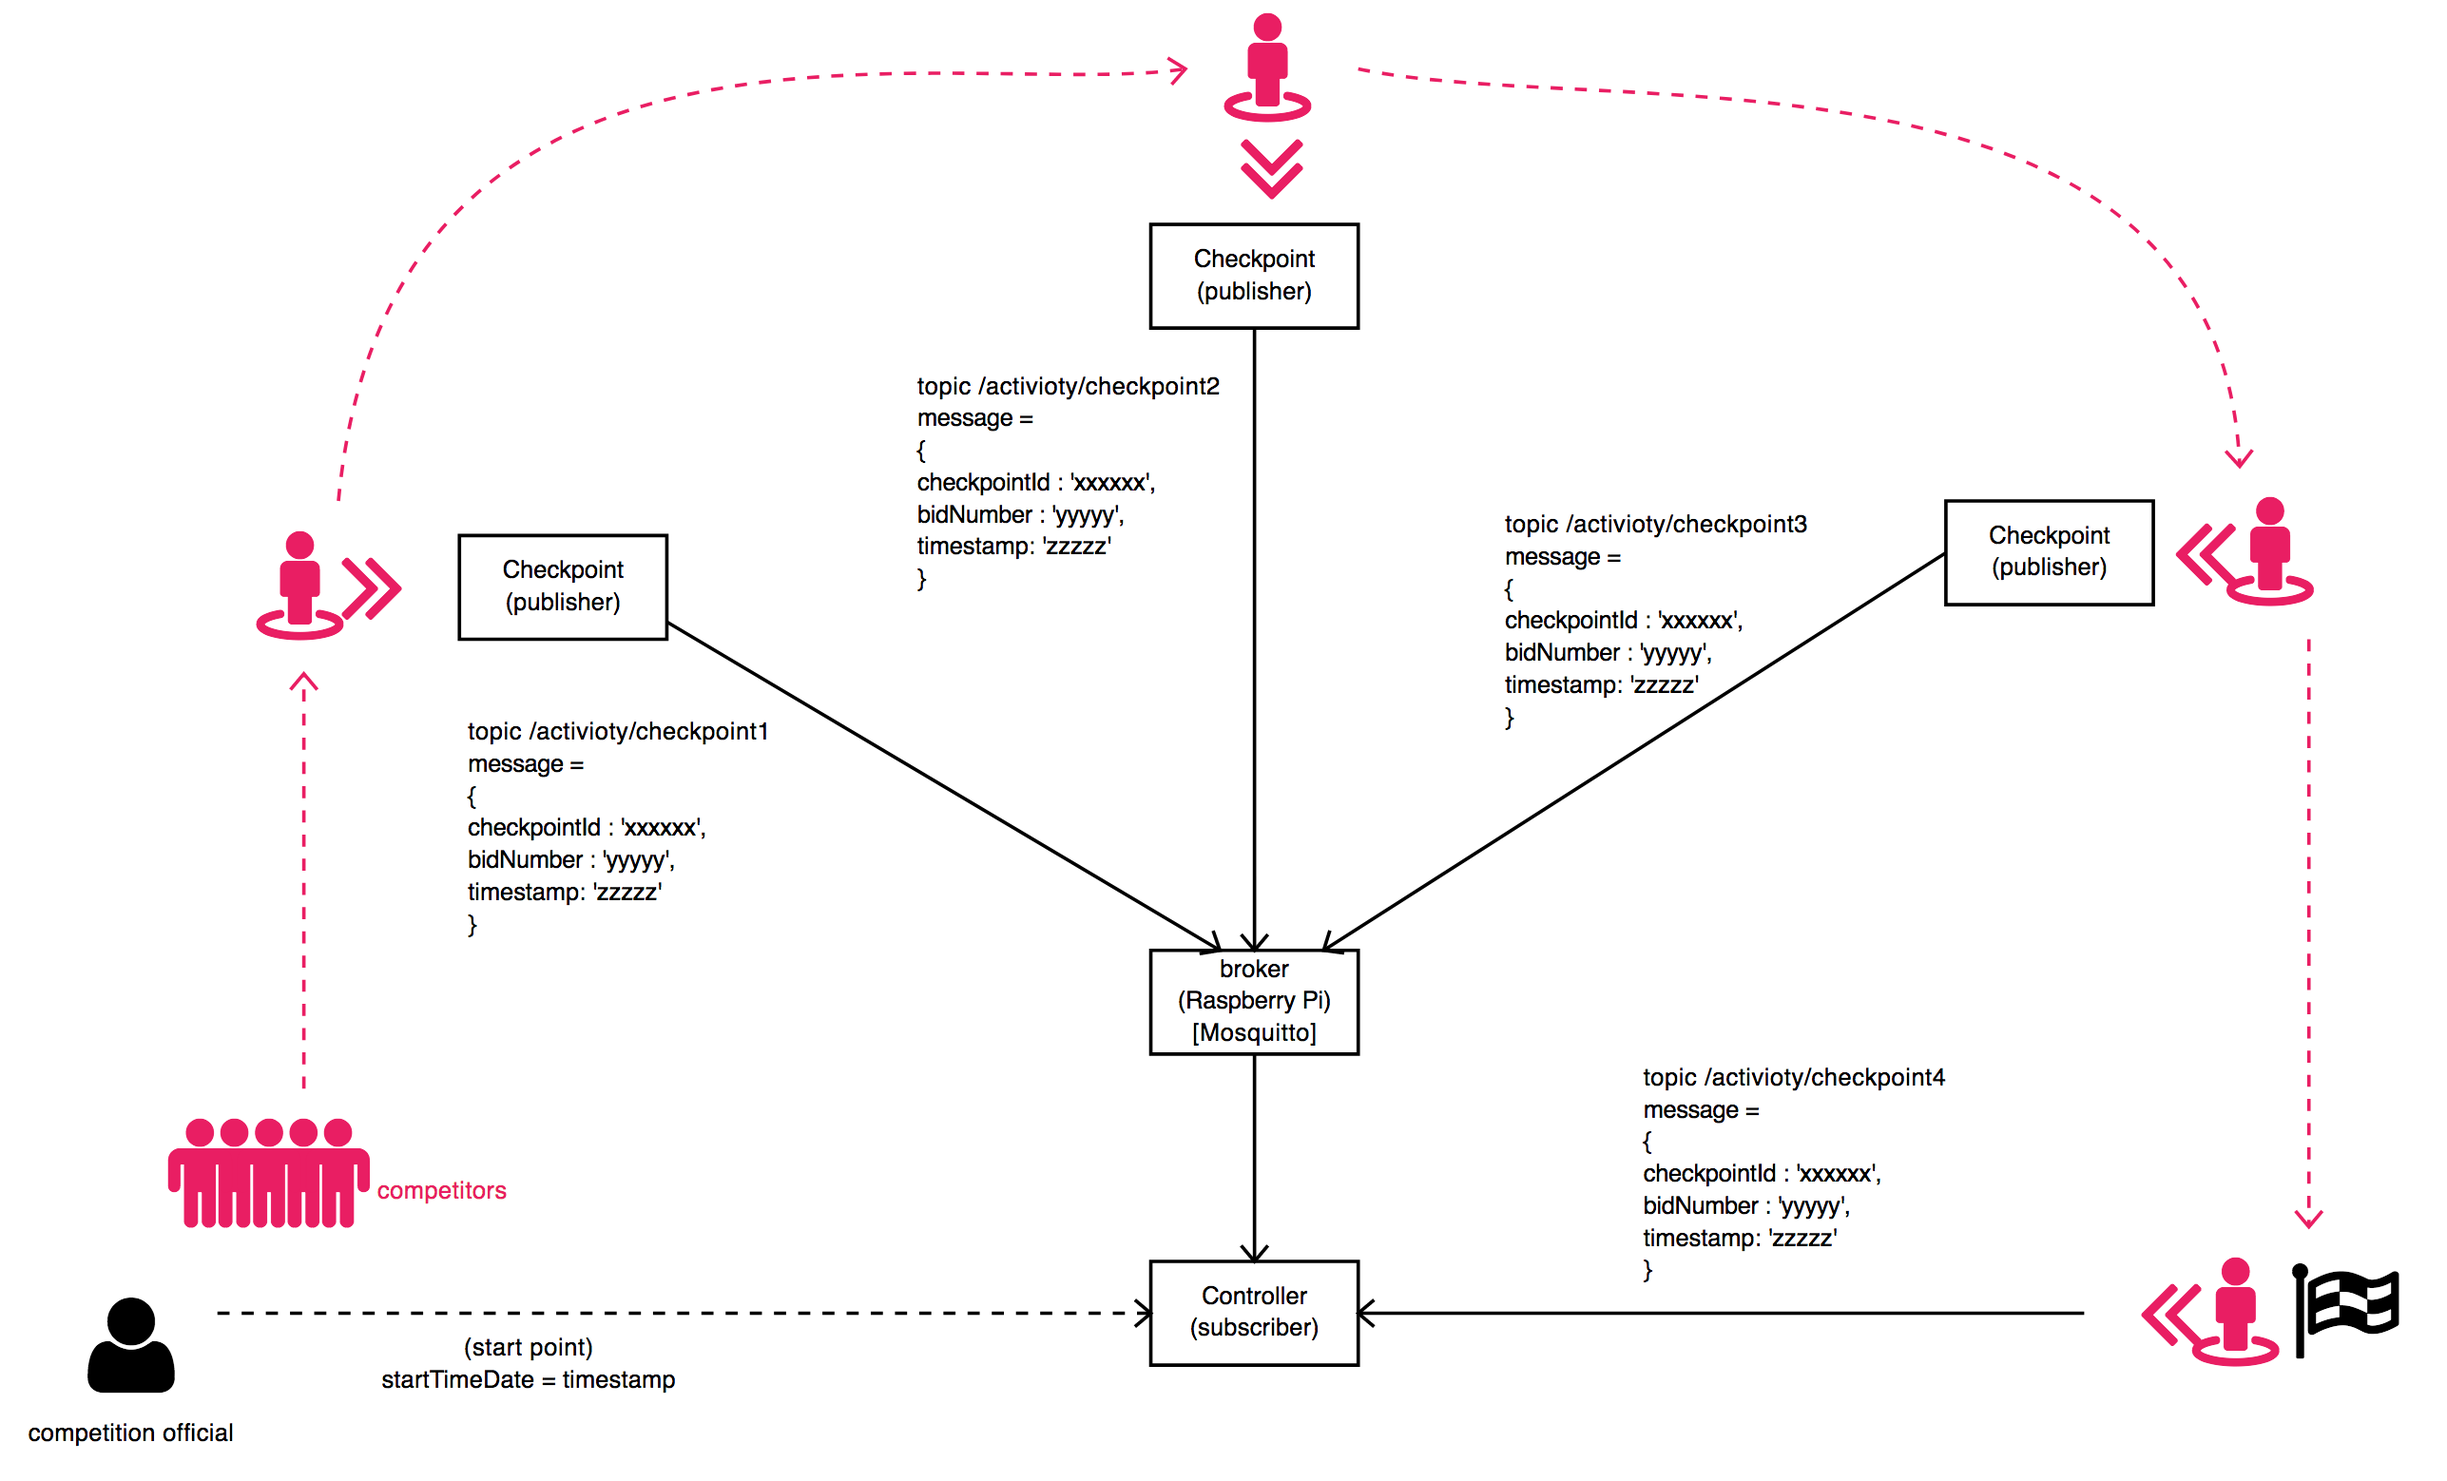
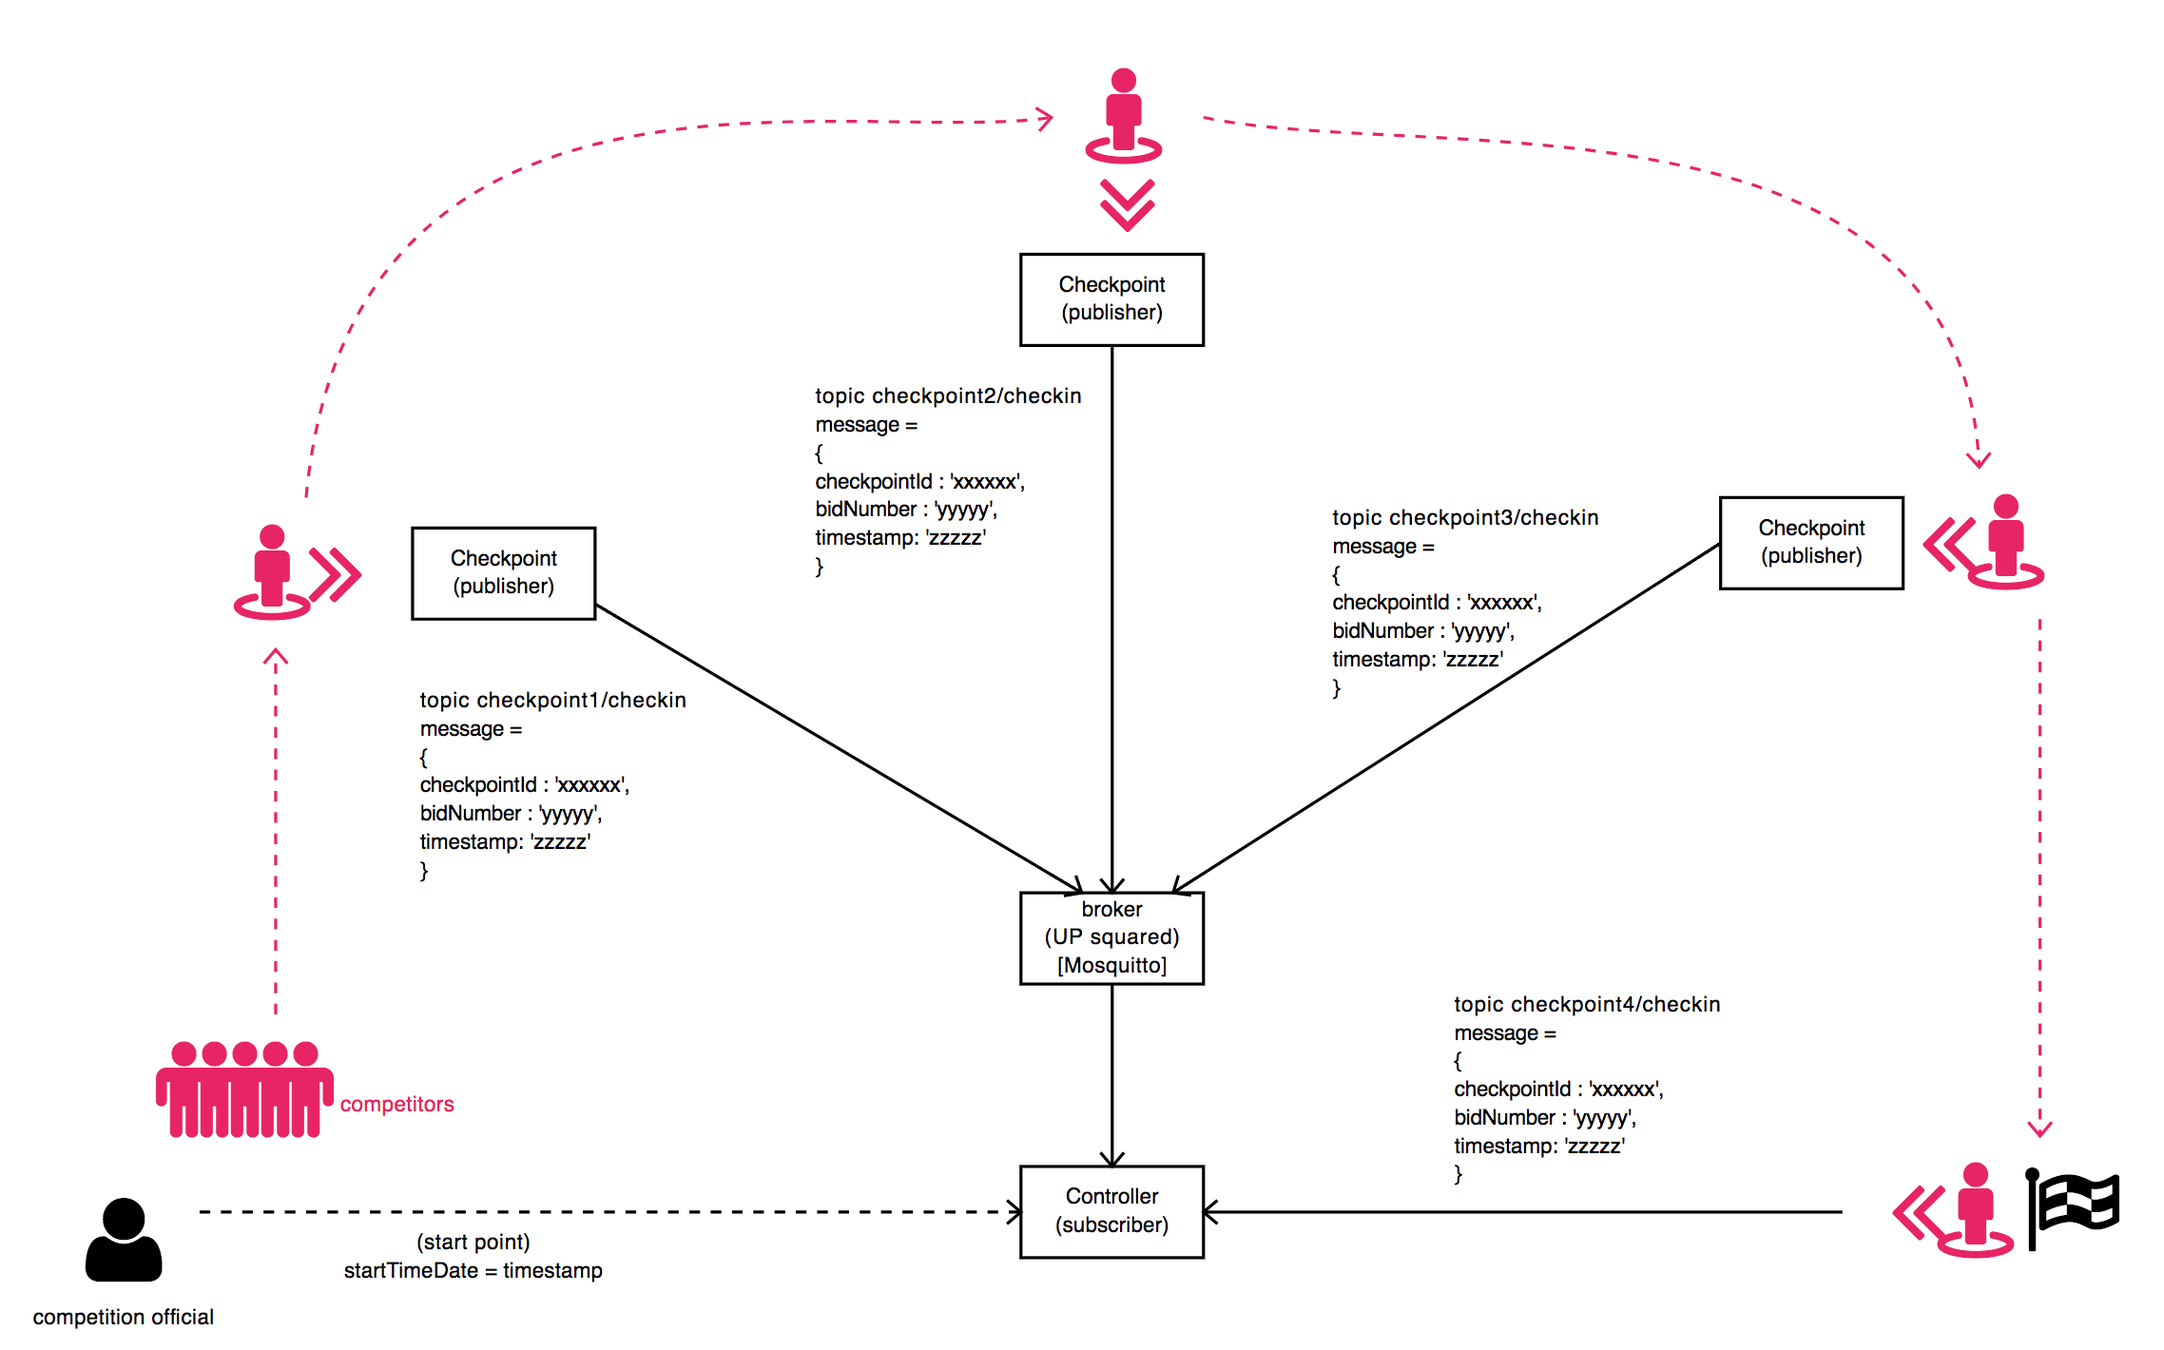
Info about workflow and implementation with Mosquitto and Paho MQTT

diff --git a/docs/pubsub.md b/docs/pubsub.md
@@ -1,7 +1,141 @@
-# MQTT messages
+# ActivIoTy - MQTT and Workflow 
+
+The platform is based on the pub-sub paradigm. This means that some components (*publishers* or *senders*) send messages to a central point, called *broker*, that delivers the messages to other components (*subscribers* or *receivers*) interested in receiving the information send by the *publishers*.
+
+Just as a reminder of what the system does: 
+1- *Checkpoints* registers { competitor's ID + timestamp }. So, these are the *publishers*
+2- *Controller*(s) collect the information sent by *Checkpoints* and process the information. So, this is one of the *subscribers*.
+3- Other *subscribers* may perform other activities (i.e., visualizations, integration with third party services, etc.)  
 
 ![pubsub](ActivIoTy PubSub Process)
 
+## MQTT
 
+> It's a good choice for systems where we need to share small code messages, and the network bandwidth may be limited
+
+This mechanism is implemented using [MQTT 3.1.1](http://mqtt.org/), an OASIS standard that is widely adopted by industries and IoT solutions. MQTT is a light-weight protocol suitable for Activity, due to the flexibility requirements regarding the conditions where *Checkpoints* operates. MQTT guarantees connections with remote locations. It's a good choice for systems where we need to share small code messages, and the network bandwidth may be limited. So, it's a perfect choice for ActivIoTy.
+
+MQTT ensures the data is delivered properly to *subscribers*. The *broker* is in charge of delivers messages, according to three [Quality of Service (QoS) levels](http://docs.oasis-open.org/mqtt/mqtt/v3.1.1/os/mqtt-v3.1.1-os.html#_Toc398718099): 
+
+* **QoS 0: At most once delivery**. No response is sent by the receiver and no retry is performed by the sender. This means that the message arrives at the receiver **either once or not at all**.
+* **QoS 1: At least once delivery**. This quality of service ensures that the message arrives at the receiver at least once.
+* **QoS 2: Exactly once delivery**. This is the highest quality of service, for use when neither loss nor duplication of messages are acceptable.
+     
+Since ActivIoTy needs to satisfy completeness and integrity of data gathered by *Checkpoints*, the chosen QoS level is **QoS 1 (At least once delivery)**. QoS 2 would be also adequate but it increases the overhead of communications. There may be duplicates, that will be filtered by receivers without too much cost associated.
+
+## Topics and Messages
+
+Application messages within the MQTT queue are related to *topics*. So, both sender and receivers may work with messages organized by topics. [Topics](http://docs.oasis-open.org/mqtt/mqtt/v3.1.1/os/mqtt-v3.1.1-os.html#_Toc398718106) follow a hierarchical structure (e.g. `bedroom` to indicate all messages related to a bedroom; `bedroom/temperature` and `bedroom/humidity` for specific messages sent by sensors in the bedroom). This  that is useful for subscribers to filter and receive only the information they need. Forward slash (‘/’ U+002F) is used to separate each level within a topic tree structure.
+
+*Checkpoints* generate two kind of application messages:
+
+1- Readiness messages (topic `ready`). They are sent once the Checkpoint is initialized and connected to the network.   
+2- Check-in messages (topic `checkin`). They are sent after the check-in of a competitor.
+
+The definition of topics may be as complex as we want, In my case, the schema of topic names is based on the id of the checkpoint and the type of message. This is: `{checkpointID}/ready` and `{checkpointID}/checkin`.
+
+Receivers may be subscribed to topics in a flexible way, using wildcards. For instance, `+/ready` to subscribe to all `ready` topics from all senders.
+
+Messages will be encoded as UTF-8 in JSON format as follows:
+
+Topic `+/ready`:
+```
+{
+	"checkpoint" : {
+		// ID required 
+		"id" : "…",
+		// Optional metadata
+		"name" : "…",
+		"description" : "…",
+		"geo" : {
+			"lat" : 0.000,
+			"lng" : 0.000,
+			"elevation" : 0.000
+		},
+	},
+	"timestamp"  : 0000000
+}
+```
+Readiness messages only require checkpoint identifier and timestamp (the Unix time of the device after synchronizing with a NTP server). 
+
+Topic `+/checkpoint`:
+```
+{
+	"checkpoint" : { 
+		"id" : "…",			// Required
+		"geo" : { "…" }		// (Optional) It can be included in case the checkpoint is on the move
+	},
+	"bibIdentifier" : "…",	// Either 'bib' or 'epc' are required
+	"epcIdentifier" : "…",
+	"timestamp"  : 0000000, 	// Required
+}
+```
+For check-in messages, it is required the checkpoint identifier (some information may be added, such as coordinates in case the checkpoint is on the move), the unique identifier of the competitor (we can have several, such as bib number and RFID tag), and the timestamp of the check-in. 
+
+
+## Implementation with Mosquitto and Paho
+
+[Eclipse Mosquitto](https://mosquitto.org/) is an open source message broker that implements the MQTT protocol versions 3.1 and 3.1.1. This server is really stable and lightweight so it can be installed in any kind of computer, even on your Raspberry Pi.
+
+Installation and configuration of the Mosquitto Broker is really easy (check [official page](https://mosquitto.org/download/) for instructions). For this pilot, I installed the Mosquitto Broker on a UP² Squared I received for this challenge –thanks, it's great!
+
+I installed it from the Mosquitto Debian Repository with *apt* just in a few steps: 
+
+After connecting via SSH with the UP² Squared.
+
+```
+wget http://repo.mosquitto.org/debian/mosquitto-repo.gpg.key
+sudo apt-key add mosquitto-repo.gpg.key 
+```
+
+Repository available to apt:
+
+```
+cd /etc/apt/sources.list.d/
+sudo wget http://repo.mosquitto.org/debian/mosquitto-wheezy.list
+```
+
+Update apt information and install Mosquitto
+
+```
+apt-get update
+apt-get install mosquitto
+```
+
+As a summary of the configuration of this broker:
+
+* Configuration file: `/etc/mosquitto/mosquitto.conf`
+* Logs: `/var/log/mosquitto/mosquitto.log`
+
+Mosquito service can be managed with this command: 
+
+```
+sudo service mosquitto [start|stop|restart]
+```
+
+The listener by default will open the `1883` port. Through the configuration file, we can set up the server. There is a sample file with all options listed and documented at `/usr/share/doc/mosquitto/examples/mosquitto.conf`.
+
+There, we can configure all the security specifications of our broker (user/password files, SSL/TLS support, bridges, etc.). 
+
+For this pilot we don't include security measures but communications should be private and secured in the production environment. 
+ 
+In case we want to test the broker, we can also install the pub-sub clients anywhere.  
+
+```
+apt-get install mosquitto-clients
+```
+
+Opening several terminal sessions, we can simulate subscribers (`mosquitto_sub`) and publishers (`mosquitto_pub`) with just these options:
+* -h (hostname)
+* -t (topic)
+* -m (message)
+
+Do not forget to open that port on your firewall to make it available from outside your network.
+
+### Paho 
+
+*Checkpoints* are implemented using [Eclipse Paho](https://www.eclipse.org/paho/). Paho provides open-source client implementations of MQTT protocols for any platform. Paho implementations may be deployed on all checkpoint modules of ActivIoTy: Raspberry + Python; UP<sup>2</sup> Squared + Python/embedded C; Arduino + embedded C).
+
+Paho is also the base for the implementation of the *Controller* (subscriber), coded in Node.js. 
 
 [pubsub]: ./images/components/pubsub.png "ActivIoTy PubSub Process"
